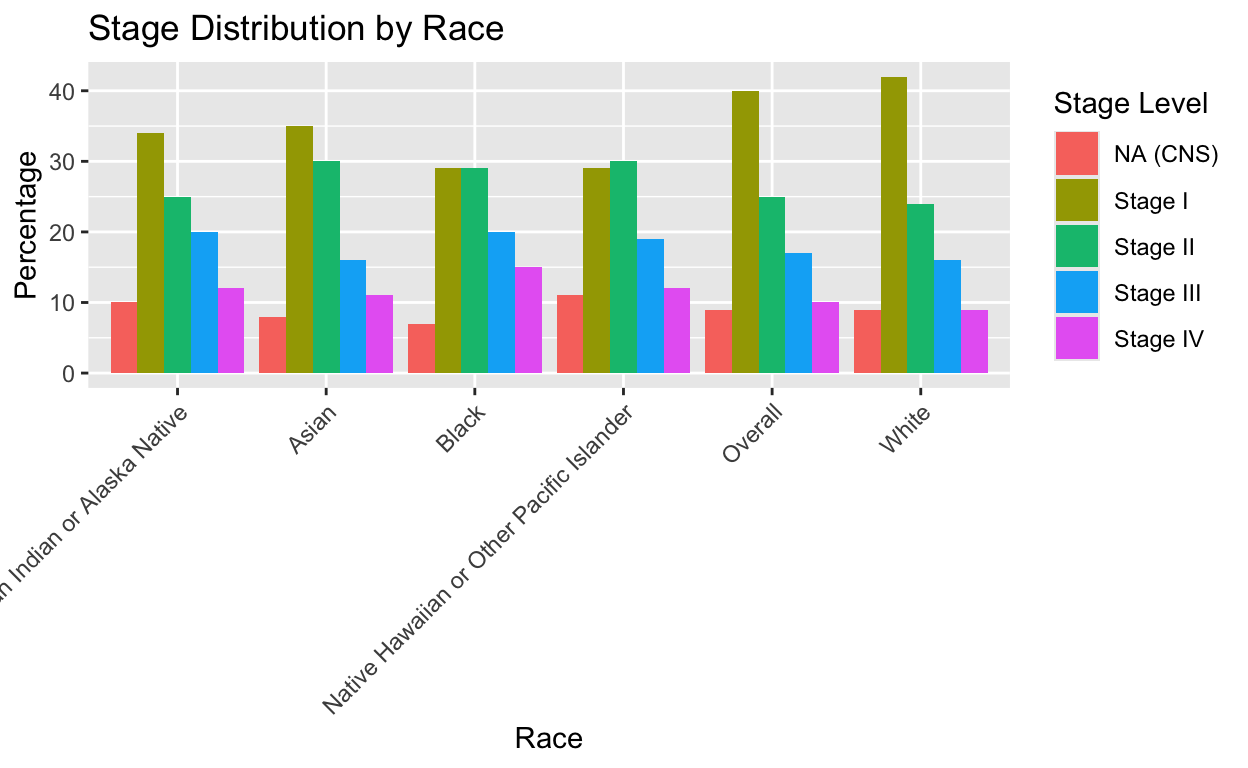
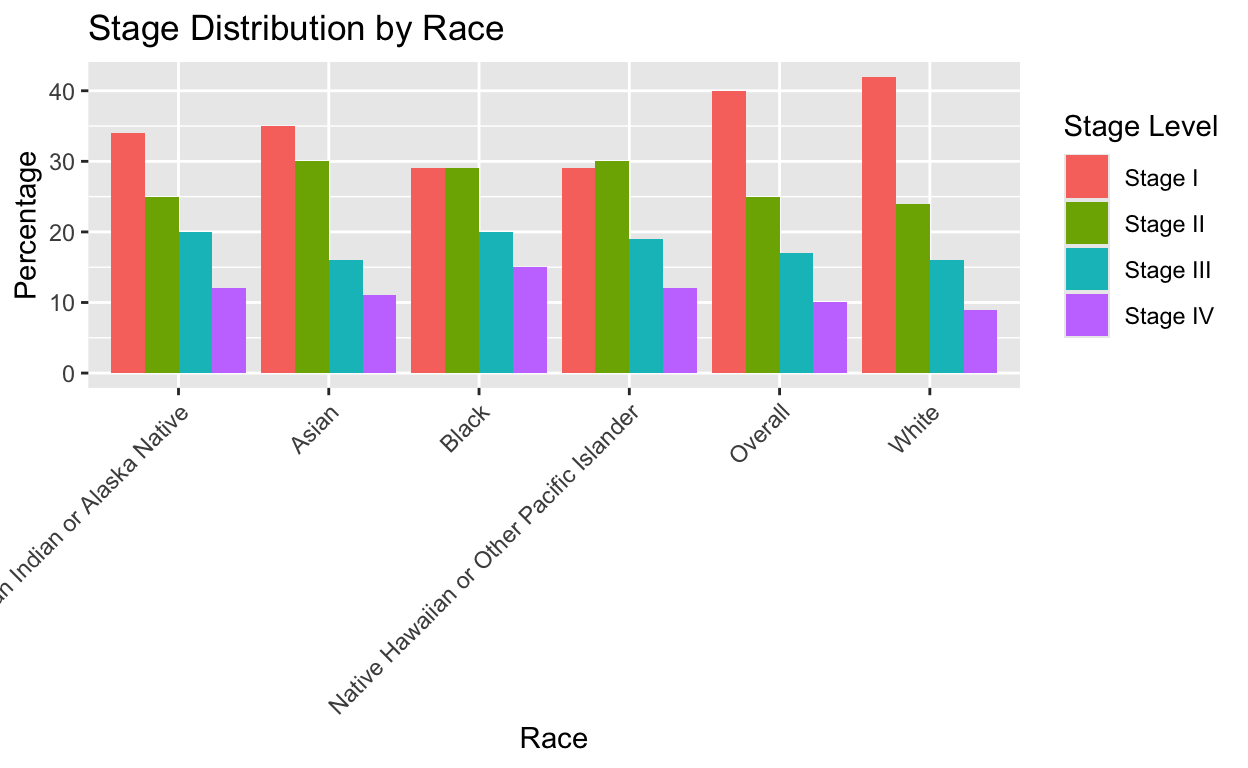
12/6 12:36pm

diff --git a/index.html b/index.html
@@ -1544,7 +1544,7 @@ code span.wa { color: #5e5e5e; font-style: italic; } /* Warning */
 
 <div class="d-article">
 <h2 id="introduction">Introduction</h2>
-<p>Race is a complicated issue in the U.S., one that is influenced by a multitude of different factors. Systemic injustices that go back to before the founding of this country continue to influence daily life for people day. Injustices such as slavery, police brutality, Jim Crow laws, redlining, forced indigenous relocation, Japanese internment, colonialism in general and much, much more have a strong power that proves that these horrible acts and events are not simply in the past. In this analysis, a variety of factors will be analyzed to ascertain more specific ways that systemic disparities can be identified. Special focus is placed on cancer, as incidence and mortality of cancer is not uniformly distributed across all racial groups. The research question of interest here is how the mortality rate of cancer differs across racial groups. As a hypothesis, it is expected that mortality rates will be higher among those that are nonwhite. A correlation between race and income groups, with nonwhite people having a higher proportion of individuals receiving lower levels of income (to be specified later) as compared to white people, is also expected. Those with lower incomes likely have received less education and have reduced access to quality healthcare and therefore may not receive the treatment they need. In this analysis, we will analyze how race relates directly to mortality rates. We will also observe how race correlates with other factors that may more directly influence mortality rates, such as levels of income and education, proportions of uninsured people, and rates of late-stage diagnosis (Stage III or IV). All of these factors are also firmly tied to the history of racism in this country. The information being studied here is important because, upon discerning how mortality rates, and therefore healthcare disparities, are distributed across demographic groups, governments and organizations can more effectively create initiatives to correct these disparities by providing essential healthcare services to those who need it.</p>
+<p>Race is a complicated issue in the U.S., one that is influenced by a multitude of different factors. Systemic injustices that go back to before the founding of this country continue to influence daily life for people today. Injustices such as slavery, police brutality, Jim Crow laws, redlining, forced indigenous relocation, Japanese internment, colonialism in general and much, much more have a strong power that proves that these horrible acts and events are not simply in the past. In this analysis, a variety of factors will be analyzed to ascertain more specific ways that systemic disparities can be identified. Special focus is placed on cancer, as incidence and mortality of cancer is not uniformly distributed across all racial groups. The research question of interest here is how the mortality rate of cancer differs across racial groups. As a hypothesis, it is expected that mortality rates will be higher among those that are nonwhite. A correlation between race and income groups, with nonwhite people having a higher proportion of individuals receiving lower levels of income (to be specified later) as compared to white people, is also expected. Those with lower incomes likely have received less education and have reduced access to quality healthcare and therefore may not receive the treatment they need. In this analysis, we will analyze how race relates directly to mortality rates. We will also observe how race correlates with other factors that may more directly influence mortality rates, such as levels of income and education, proportions of uninsured people, and rates of late-stage diagnosis (Stage III or IV). All of these factors are also firmly tied to the history of racism in this country. The information being studied here is important because, upon discerning how mortality rates, and therefore healthcare disparities, are distributed across demographic groups, governments and organizations can more effectively create initiatives to correct these disparities by providing essential healthcare services to those who need it.</p>
 <h2 id="data">Data</h2>
 <p>The following data comes from the paper “Racial Disparities in Cancer Stage at Diagnosis and Survival for Adolescents and Young Adults” by Taparra, Kekumano, et al., published in the National Library of Medicine (<a href="https://pmc.ncbi.nlm.nih.gov/articles/PMC11365006/" class="uri">https://pmc.ncbi.nlm.nih.gov/articles/PMC11365006/</a>) on August 30, 2024. The research question in this study aligns well with the goals of this analysis, as the researchers wanted to understand any relationship between race and two variables: 1) cancer stage at diagnosis and 2) mortality rate. Because of this, the data is very useful in answering the research question being posed here. The data was collected retrospectively with the goal of creating a statistical analysis, covering those who received a diagnosis between January 1, 2004 and December 31, 2017.</p>
 <p>Loading the datasets and packages:</p>
@@ -1928,7 +1928,7 @@ Data table previews:
 <div class="layout-chunk" data-layout="l-body">
 <div class="sourceCode">
 <pre class="sourceCode r"><code class="sourceCode r"><span><span class='va'>finaldataperc_long_stage</span> <span class='op'>&lt;-</span> <span class='va'>finaldataperc1</span> <span class='op'>|&gt;</span></span>
-<span>  <span class='fu'><a href='https://tidyr.tidyverse.org/reference/pivot_longer.html'>pivot_longer</a></span><span class='op'>(</span>cols <span class='op'>=</span> <span class='fu'><a href='https://rdrr.io/r/base/c.html'>c</a></span><span class='op'>(</span><span class='st'>"Stage I"</span>, <span class='st'>"Stage II"</span>, <span class='st'>"Stage III"</span>, <span class='st'>"Stage IV"</span>, <span class='st'>"NA (CNS)"</span><span class='op'>)</span>,</span>
+<span>  <span class='fu'><a href='https://tidyr.tidyverse.org/reference/pivot_longer.html'>pivot_longer</a></span><span class='op'>(</span>cols <span class='op'>=</span> <span class='fu'><a href='https://rdrr.io/r/base/c.html'>c</a></span><span class='op'>(</span><span class='st'>"Stage I"</span>, <span class='st'>"Stage II"</span>, <span class='st'>"Stage III"</span>, <span class='st'>"Stage IV"</span><span class='op'>)</span>,</span>
 <span>               names_to <span class='op'>=</span> <span class='st'>"Stage Category"</span>,</span>
 <span>               values_to <span class='op'>=</span> <span class='st'>"Stage Value"</span><span class='op'>)</span></span></code></pre>
 </div>
@@ -1951,7 +1951,7 @@ Data table previews:
 </div>
 <p><img src="index_files/figure-html5/unnamed-chunk-20-1.png" width="624" /></p>
 </div>
-<p>White people are the only group with a Stage I diagnosis proportion higher than the Overall. Native Hawaiian and Asian people are tied for the highest proportion of Stage II diagnoses, while Black and American Indian populations are tied for the highest Stage III proportions. Black people also have the largest level of those diagnosed at Stage IV. All of these extreme values are larger than their corresponding value in the Overall.</p>
+<p>White people are the only group with a Stage I diagnosis proportion higher than the Overall. Native Hawaiian and Asian people are tied for the highest proportion of Stage II diagnoses, while Black and American Indian populations are tied for the highest Stage III proportions. Black people also have the largest level of those diagnosed at Stage IV. All of these extreme values are larger than their corresponding value in the Overall. It is also noteworthy that, while Stage I is typically the most common stage of diagnosis, Stage II is more common among Native Hawaiians/Other Pacific Islanders and it Stages I and II have equal proportions in the Black population.</p>
 <p>Finally, we will create a linear regression to determine how a dependent variable (mortality rate) influences the independent variable (race). Mortality rate is selected because that is ultimately the most interesting variable for this study’s purposes. The other four dependent variables are included primarily to determine trends across these variables; if white people have the highest percentage of people classified as “Higher income”, do they also have the highest percentage of people classified as “More education”, “Private insurance”, and “Stage I” (diagnosing cancer early is indicative of regular check-ins with a doctor and it is positively correlated with survival rates)?</p>
 <div class="layout-chunk" data-layout="l-body">
 <div class="sourceCode">
